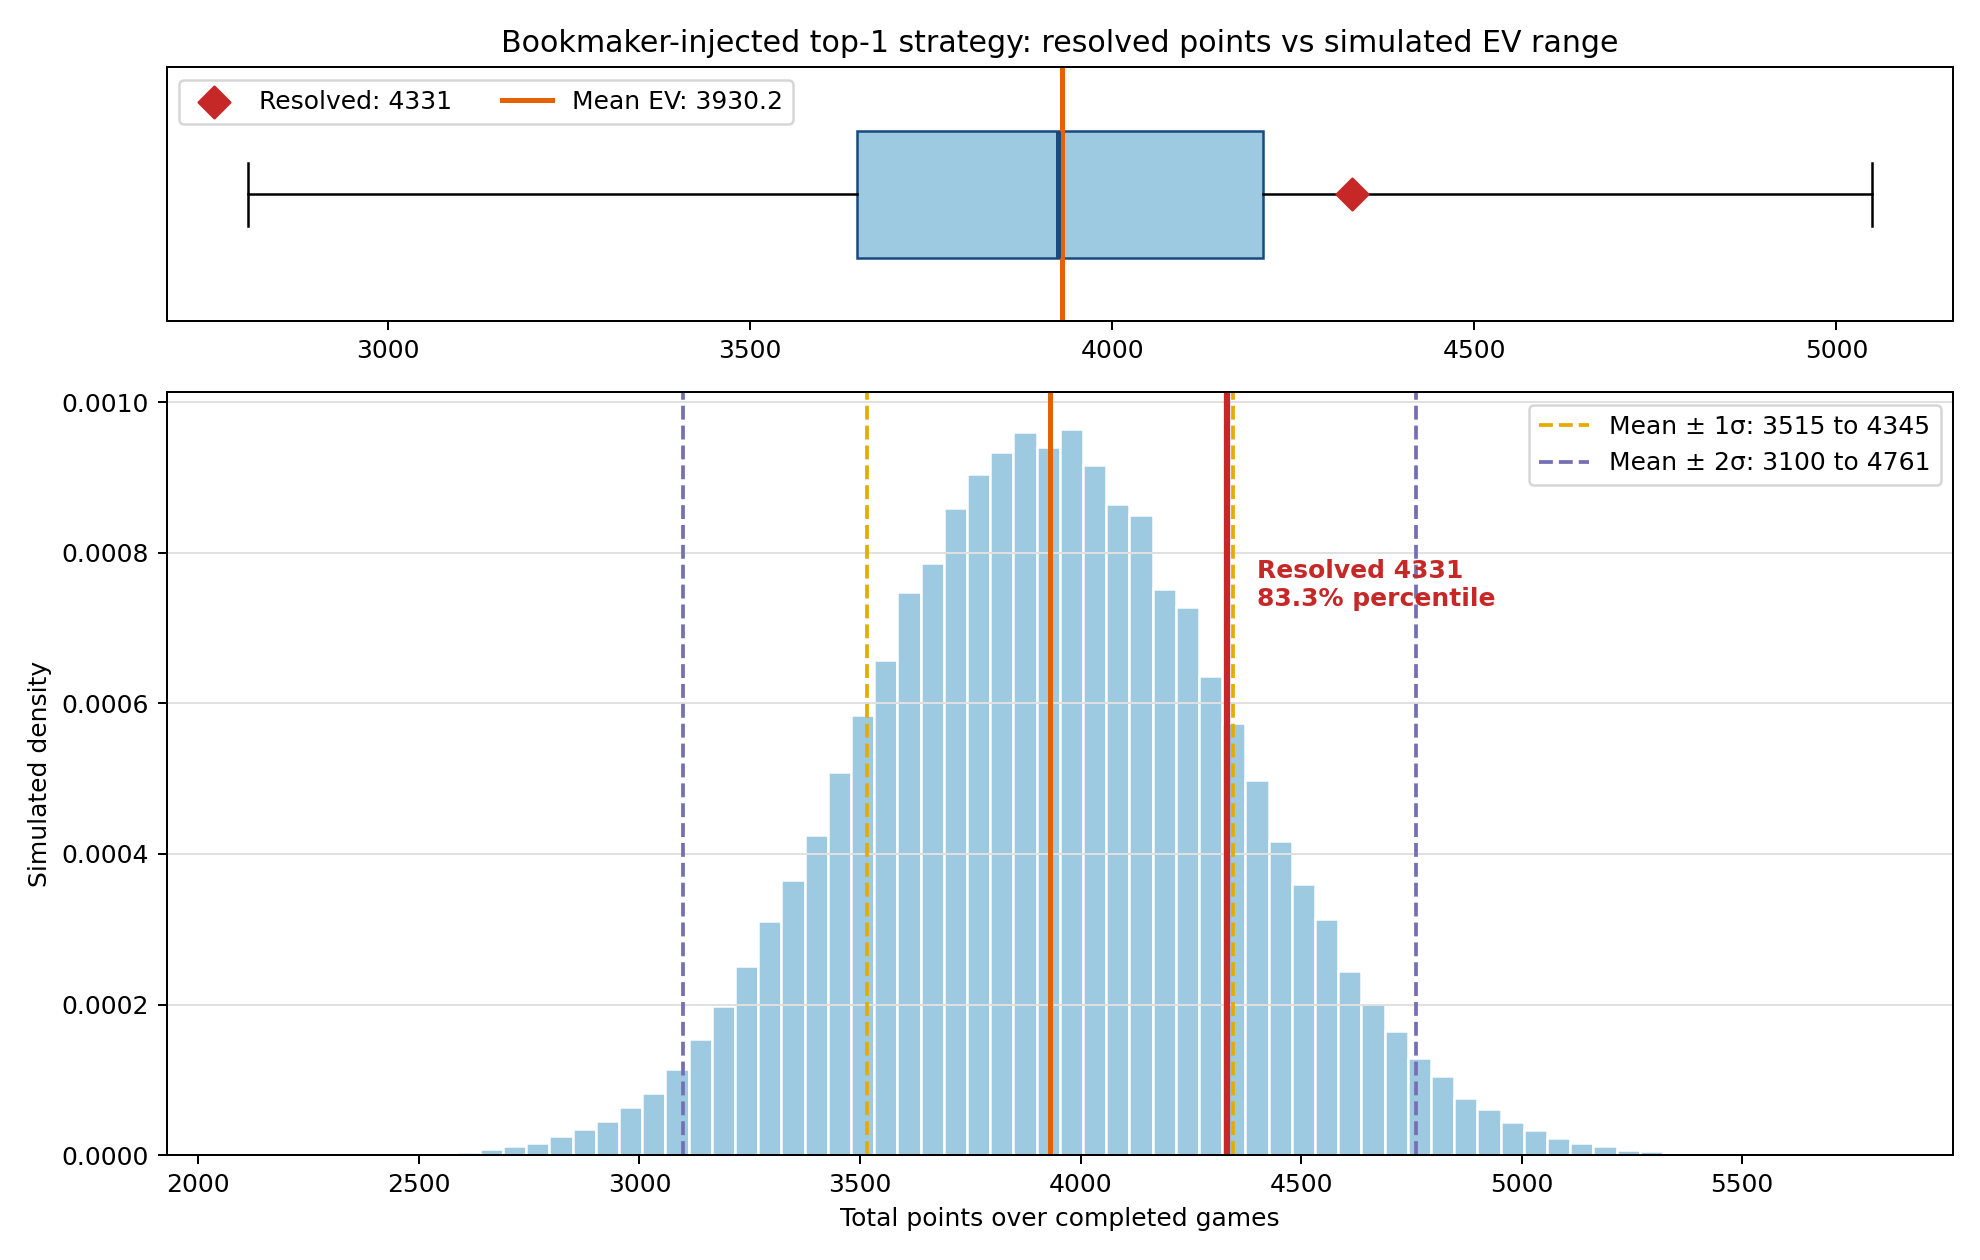
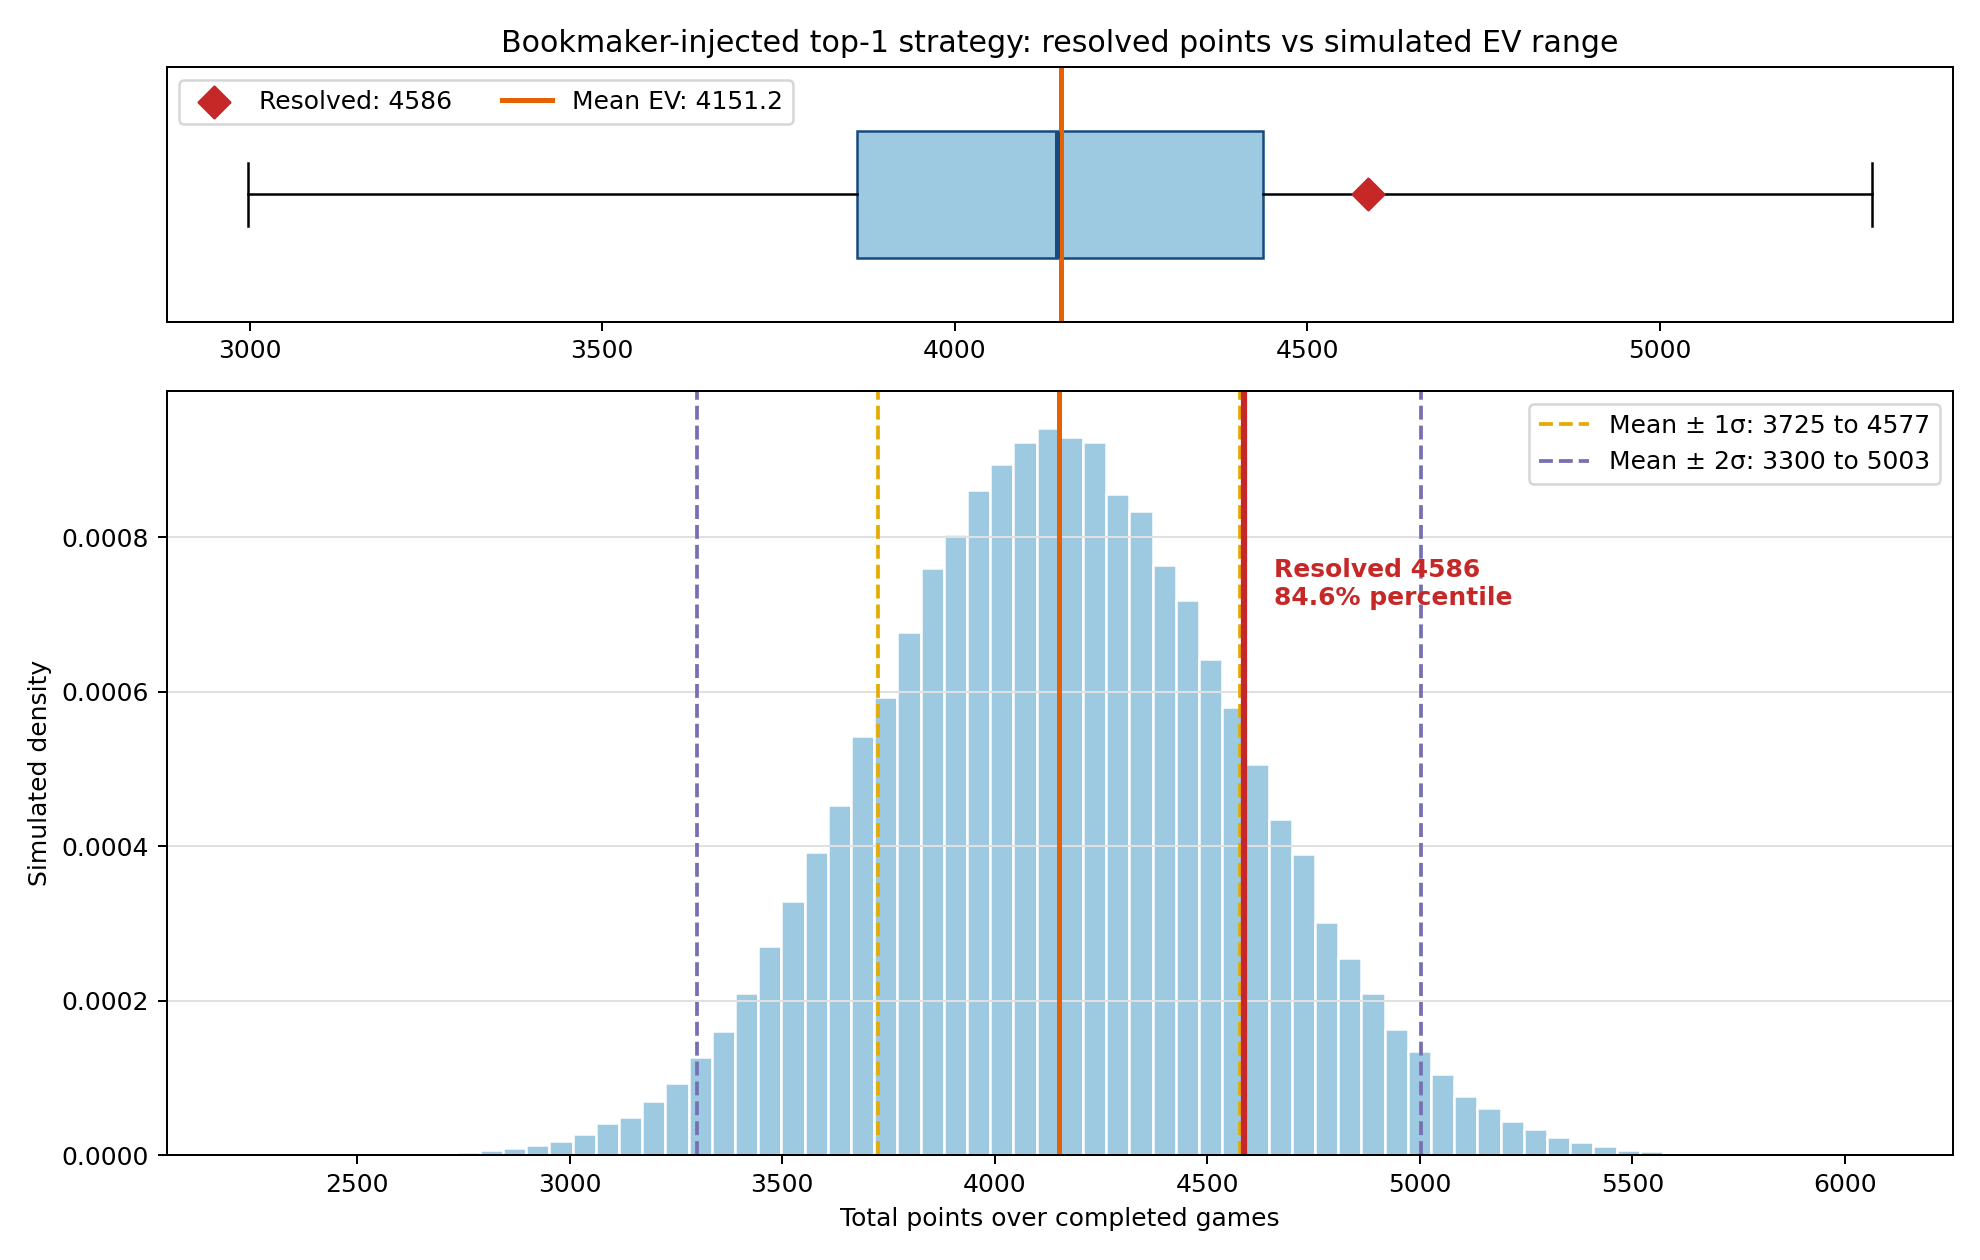
quarterfinals

diff --git a/compute_mpg_strategy.py b/compute_mpg_strategy.py
@@ -54,7 +54,7 @@ DEFAULT_BETTOR_MULTIPLIER_FILE = "data/mpg/bettor_behavior_exact_score_multiplie
 DEFAULT_OUT = "data/mpg/mpg_optimal_strategy.csv"
 DEFAULT_SCORE_EV_OUT = "data/mpg/mpg_score_expected_values.csv"
 DEFAULT_COMPARISON_OUT = "data/mpg/mpg_day_comparison.csv"
-DEFAULT_TOP_BETS_XLSX_OUT = "data/mpg/mpg_quarterfinal_top5_bets.xlsx"
+DEFAULT_TOP_BETS_XLSX_OUT = "data/mpg/mpg_semifinal_top5_bets.xlsx"
 DEFAULT_HISTORY_DIR = "data/mpg/strategy_snapshots"
 DEFAULT_COMPLETED_FILE = "data/mpg/completed_games.csv"
 DEFAULT_STRATEGY_EVENT_OFFSET = 0
@@ -987,7 +987,7 @@ def write_top_bets_xlsx(
             '<?xml version="1.0" encoding="UTF-8" standalone="yes"?>'
             '<workbook xmlns="http://schemas.openxmlformats.org/spreadsheetml/2006/main" '
             'xmlns:r="http://schemas.openxmlformats.org/officeDocument/2006/relationships">'
-            '<sheets><sheet name="Quarterfinal Top 5" sheetId="1" r:id="rId1"/></sheets>'
+            '<sheets><sheet name="Semifinal Top 5" sheetId="1" r:id="rId1"/></sheets>'
             '</workbook>'
         ),
         "xl/_rels/workbook.xml.rels": (
@@ -1006,7 +1006,7 @@ def write_top_bets_xlsx(
             'xmlns:dcterms="http://purl.org/dc/terms/" '
             'xmlns:dcmitype="http://purl.org/dc/dcmitype/" '
             'xmlns:xsi="http://www.w3.org/2001/XMLSchema-instance">'
-            '<dc:title>MPG Quarterfinal Top 5 Bets</dc:title>'
+            '<dc:title>MPG Semifinal Top 5 Bets</dc:title>'
             '<dc:creator>compute_mpg_strategy.py</dc:creator>'
             '</cp:coreProperties>'
         ),
@@ -1247,7 +1247,7 @@ def main() -> None:
     )
     comparison_rows = [
         comparison_row(
-            "quarterfinal_reference",
+            "semifinal_reference",
             comparison_strategy_rows,
             completed_rows,
             offset=args.compare_event_offset,
@@ -1255,7 +1255,7 @@ def main() -> None:
             now=captured_at,
         ),
         comparison_row(
-            "quarterfinal",
+            "semifinal",
             strategy_rows,
             completed_rows,
             offset=args.event_offset,

diff --git a/fetch_odds.py b/fetch_odds.py
@@ -1,6 +1,6 @@
 #!/usr/bin/env python3
 """
-Fetch FIFA World Cup 2026 quarterfinal odds from The Odds API and write them
+Fetch FIFA World Cup 2026 semifinal odds from The Odds API and write them
 to CSV.
 
 Default behavior is deliberately cheap:
@@ -16,7 +16,7 @@ Run:
   python fetch_odds.py
 
 Output:
-  data/odds_snapshots/YYYY/MM/world_cup_quarterfinal_odds_YYYYMMDDTHHMMSSZ.csv
+  data/odds_snapshots/YYYY/MM/world_cup_semifinal_odds_YYYYMMDDTHHMMSSZ.csv
   data/odds_snapshots/latest.csv
 """
 
@@ -41,13 +41,13 @@ DEFAULT_API_KEY_FILE = ".odds_api_key"
 
 BASE_URL = "https://api.the-odds-api.com/v4"
 
-# FIFA World Cup 2026 quarterfinals.
-# Covers the four fixtures from 2026-07-09 through 2026-07-12 UTC.
-DEFAULT_FROM_TIME = "2026-07-09T00:00:00Z"
-DEFAULT_TO_TIME = "2026-07-13T00:00:00Z"
+# FIFA World Cup 2026 semifinals.
+# Covers the two fixtures from 2026-07-14 through 2026-07-15 UTC.
+DEFAULT_FROM_TIME = "2026-07-14T00:00:00Z"
+DEFAULT_TO_TIME = "2026-07-16T00:00:00Z"
 
 DEFAULT_SNAPSHOT_DIR = "data/odds_snapshots"
-DEFAULT_BASE_NAME = "world_cup_quarterfinal_odds"
+DEFAULT_BASE_NAME = "world_cup_semifinal_odds"
 DEFAULT_REGION = "eu"
 DEFAULT_MARKET = "h2h,spreads,totals"
 DEFAULT_ODDS_FORMAT = "decimal"

diff --git a/odds_pipeline/elimination.py b/odds_pipeline/elimination.py
@@ -7,7 +7,7 @@ from datetime import datetime, timezone
 GAME_STAGE_GROUP = "group"
 GAME_STAGE_ELIMINATION = "elimination"
 KNOCKOUT_FROM = datetime(2026, 6, 28, tzinfo=timezone.utc)
-QUARTERFINAL_TO = datetime(2026, 7, 13, tzinfo=timezone.utc)
+SEMIFINAL_TO = datetime(2026, 7, 16, tzinfo=timezone.utc)
 DRAW_RETENTION_PROBABILITY_MULTIPLIER = 3.0
 MAX_DRAW_RETENTION_FACTOR = 0.90
 
@@ -23,7 +23,7 @@ def game_stage_for_commence_time(commence_time: str | None) -> str:
     if not commence_time:
         return GAME_STAGE_GROUP
     kickoff = parse_utc(commence_time)
-    if KNOCKOUT_FROM <= kickoff < QUARTERFINAL_TO:
+    if KNOCKOUT_FROM <= kickoff < SEMIFINAL_TO:
         return GAME_STAGE_ELIMINATION
     return GAME_STAGE_GROUP
 

diff --git a/tests/test_compute_mpg_strategy.py b/tests/test_compute_mpg_strategy.py
@@ -406,7 +406,7 @@ class StrategyWindowTests(unittest.TestCase):
                 self.assertIn("xl/workbook.xml", workbook.namelist())
                 sheet = workbook.read("xl/worksheets/sheet1.xml").decode("utf-8")
                 self.assertIn(
-                    "Quarterfinal",
+                    "Semifinal",
                     workbook.read("xl/workbook.xml").decode("utf-8"),
                 )
                 self.assertIn("total_expected_points", sheet)

diff --git a/README.md b/README.md
@@ -74,11 +74,11 @@ Use this when you want a fully automated pipeline from bookmaker APIs. The
 
 ## Bookmaker-Injected Top-1 Bets
 
-Latest logged exact-score screenshot: **United States vs Belgium**, Round of 16.
+Latest logged exact-score screenshot: **England vs Argentina**.
 
 | Match | Top-1 bet | Total EV |
 |---|---|---:|
-| United States vs Belgium | United States 1-0 | **42.25** |
+| England vs Argentina | England 1-0 | **40.76** |
 
 The transfer adjustment mainly changes rarity around draw-adjacent scores,
 such as `1-0`.
@@ -87,12 +87,12 @@ such as `1-0`.
 
 Latest full run:
 
-- Completed bookmaker-injected top-1 picks: **96**
-- Bookmaker top-1 resolved points: **4331.00**
-- Bookmaker logged EV: **3930.23**
-- Random-player resolved expected points: **3625.13**
-- Realized edge vs random-player baseline: **+705.87**
-- Bookmaker top-1 percentile vs sampled random players: **96.99%**
+- Completed bookmaker-injected top-1 picks: **101**
+- Bookmaker top-1 resolved points: **4586.00**
+- Bookmaker logged EV: **4151.12**
+- Random-player resolved expected points: **3823.26**
+- Realized edge vs random-player baseline: **+762.74**
+- Bookmaker top-1 percentile vs sampled random players: **97.66%**
 
 ![Latest bookmaker-injected top-1 vs random-player simulation](data/analysis/strategy_simulations/bookmaker_injected/top1_vs_random_player_distribution.png)
 
@@ -201,7 +201,12 @@ Legend: `❌` wrong result, `✅` correct result, `🎯` exact score.
 | ❌ | United States vs Belgium | 1-0 | 1-4 | 0 | 0 | **0** |
 | ✅ | Argentina vs Egypt | 1-0 | 3-2 | 43 | 0 | **43** |
 | ❌ | Switzerland vs Colombia | 0-1 | 0-0 | 0 | 0 | **0** |
-|  | **Total** |  |  | **3791** | **540** | **4331** |
+| ✅ | France vs Morocco | 1-0 | 2-0 | 54 | 0 | **54** |
+| ✅ | Spain vs Belgium | 1-0 | 2-1 | 60 | 0 | **60** |
+| ✅ | Norway vs England | 0-1 | 1-2 | 77 | 0 | **77** |
+| ✅ | Argentina vs Switzerland | 1-0 | 3-1 | 64 | 0 | **64** |
+| ❌ | France vs Spain | 1-0 | 0-2 | 0 | 0 | **0** |
+|  | **Total** |  |  | **4046** | **540** | **4586** |
 
 ## Quick Start
 
